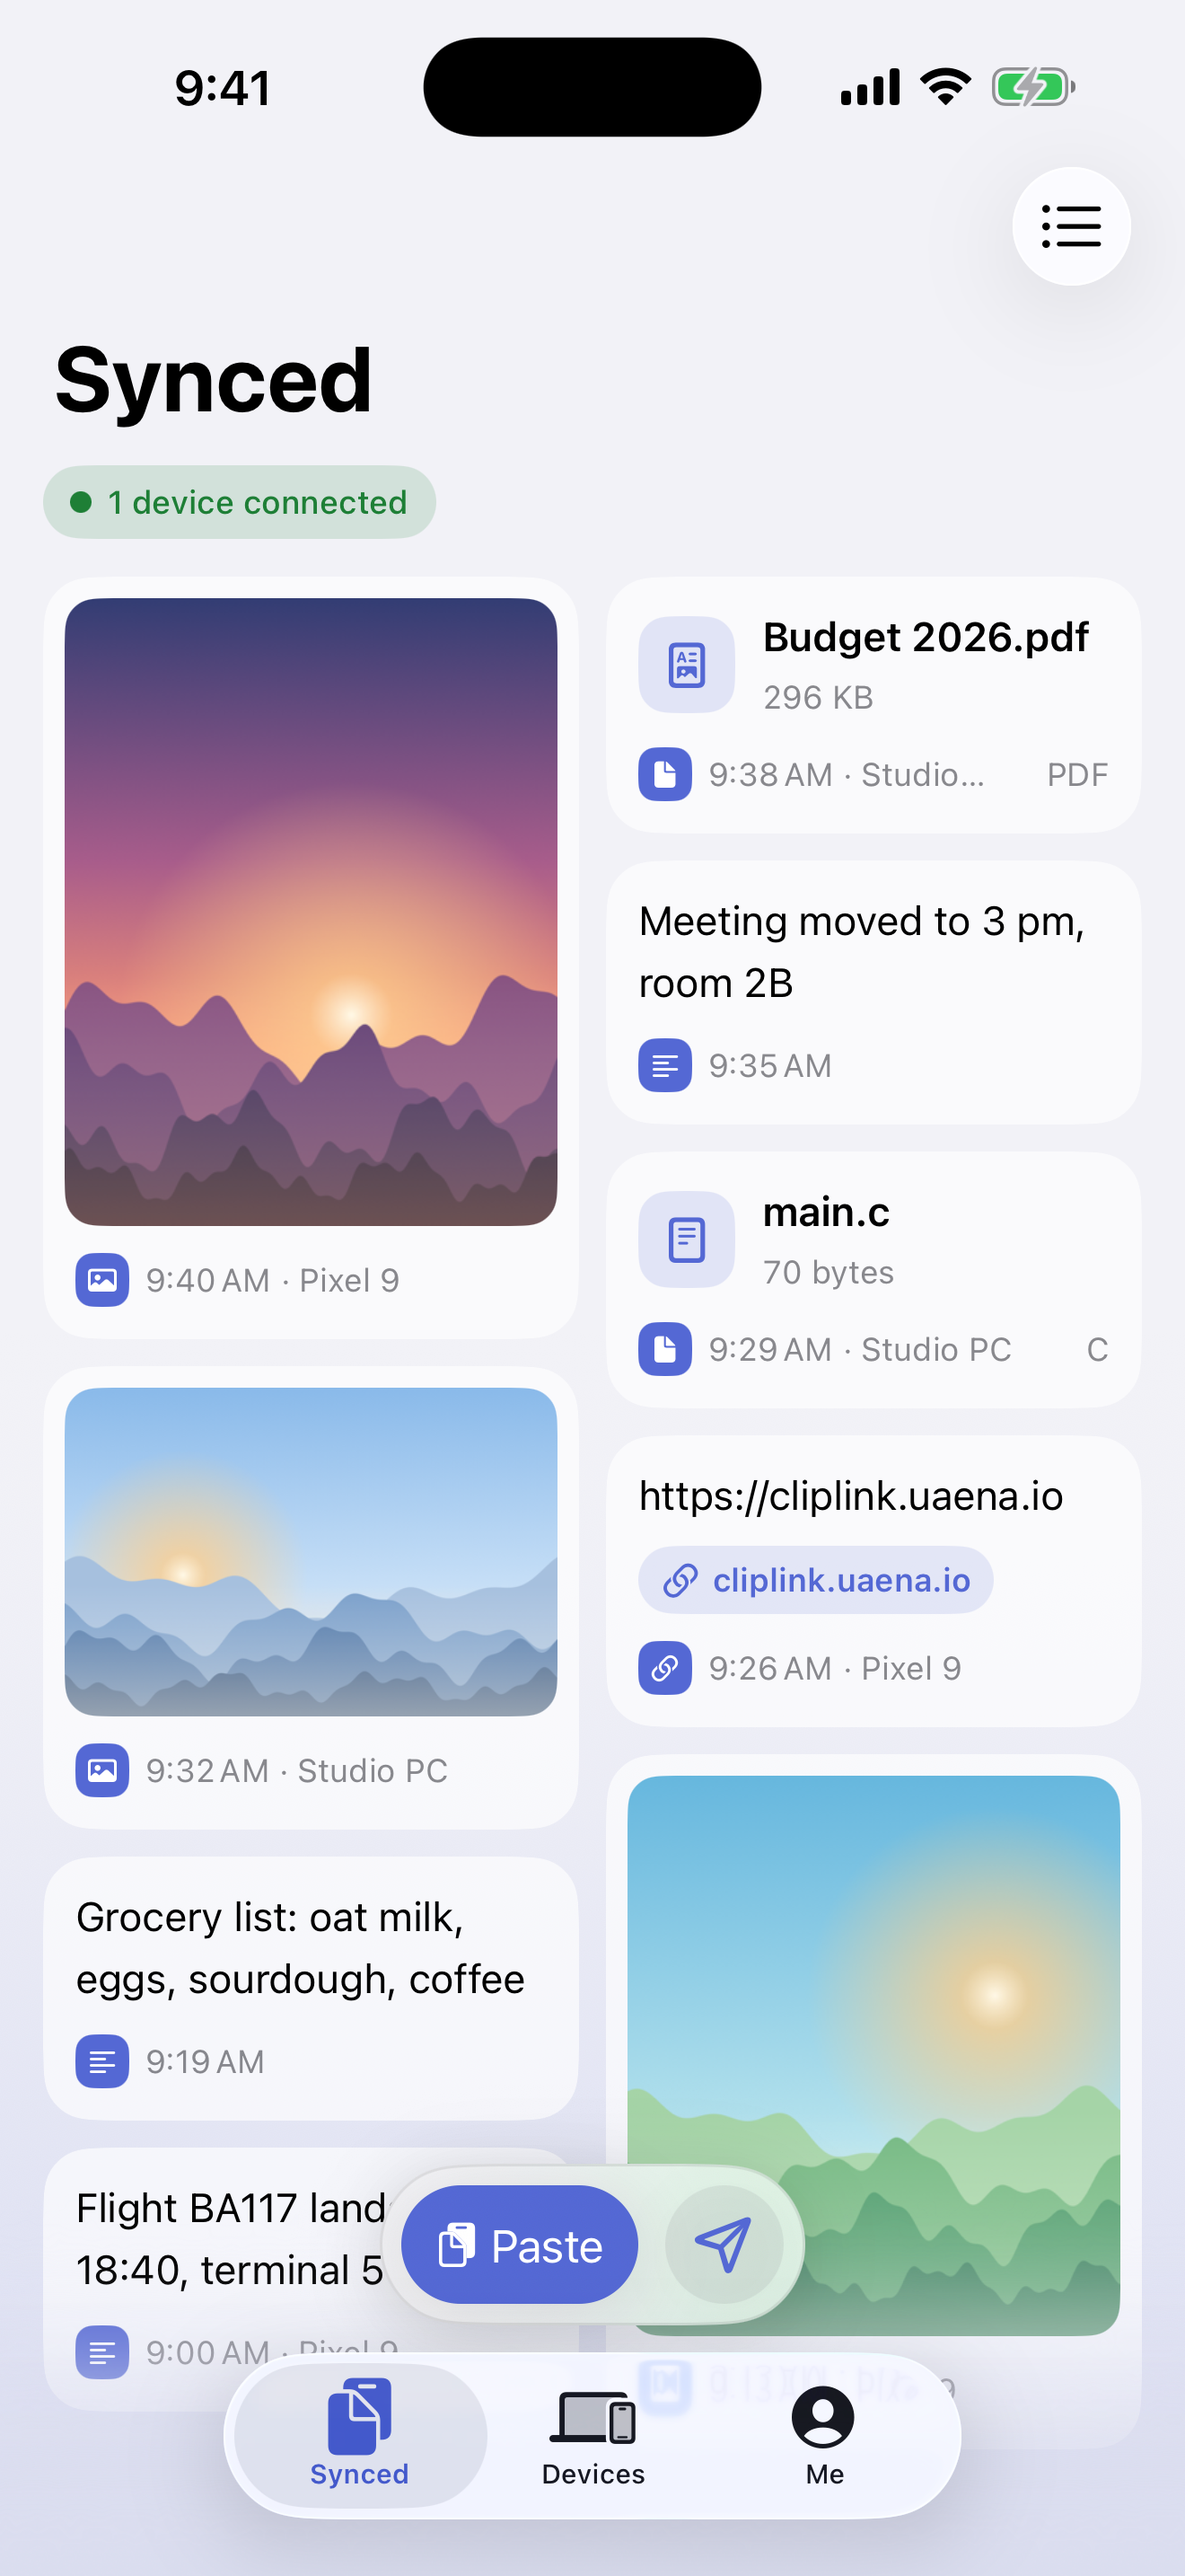
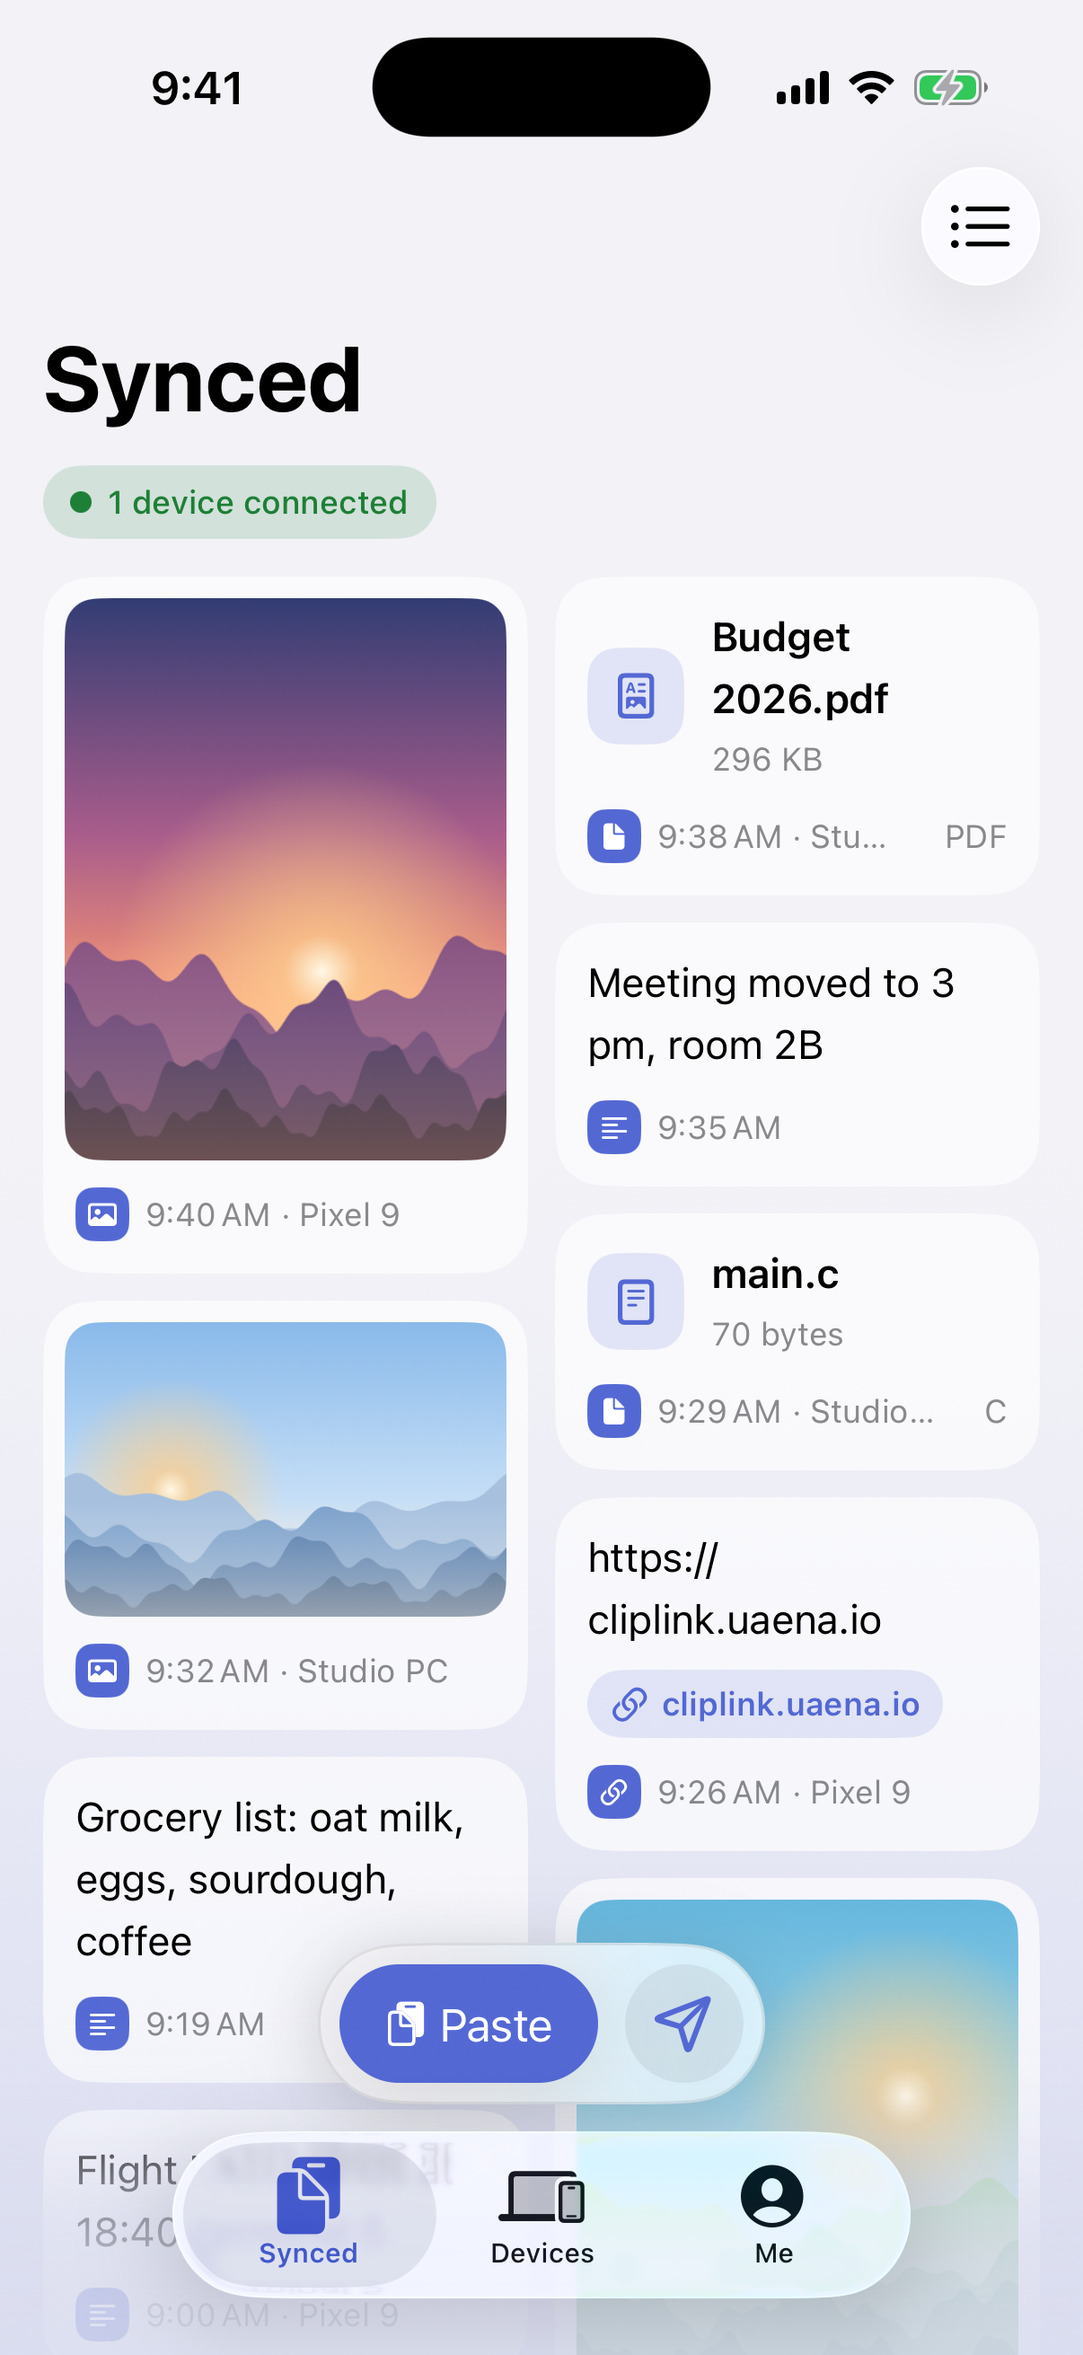
images: iPhone App Store screenshots at 1206x2622 (6.3-inch)
App Store Connect's iPhone slot takes 6.1/6.3-inch sizes (1206x2622 or 1179x2556),
so the iPhone set is recaptured at 1206x2622 on an iPhone 17 Pro simulator
(the settings screen is resampled from the earlier 1320x2868 capture).

diff --git a/images/README.md b/images/README.md
@@ -6,7 +6,7 @@ The [main README](../README.md) uses `windows/`, `ios/`, `android/` and `harmony
 | Folder | What is in it |
 | --- | --- |
 | `windows/` | The Windows app |
-| `ios/` | The iPhone app: the picture on the main README (`synced.webp`) and the App Store screenshots with sample content: four iPhone ones (`phone-1-synced.png`, `phone-2-devices.png`, `phone-3-me.png`, `phone-4-settings.png`) at 1320x2868, the 6.9-inch size, and three iPad ones (`ipad-1-synced.png`, `ipad-2-devices.png`, `ipad-3-me.png`) at 2048x2732, the 13-inch size |
+| `ios/` | The iPhone app: the picture on the main README (`synced.webp`) and the App Store screenshots with sample content: four iPhone ones (`phone-1-synced.png`, `phone-2-devices.png`, `phone-3-me.png`, `phone-4-settings.png`) at 1206x2622, the 6.3-inch size App Store Connect asks for first (the fourth is the Me screen scrolled to the settings, resampled from a 1320x2868 capture), and three iPad ones (`ipad-1-synced.png`, `ipad-2-devices.png`, `ipad-3-me.png`) at 2048x2732, the 13-inch size |
 | `android/` | The Android app: the Devices, Me, Settings and Synced screens, plus the pictures on the Google Play page (`icon-512.png`, `feature-graphic-1024x500.png` and the four `phone-*.png` screenshots at 1080x1920) |
 | `harmonyos/phone/` | The HarmonyOS phone app, 1080x1920 |
 | `harmonyos/tablet/` | The HarmonyOS tablet app, 1920x1280 |
